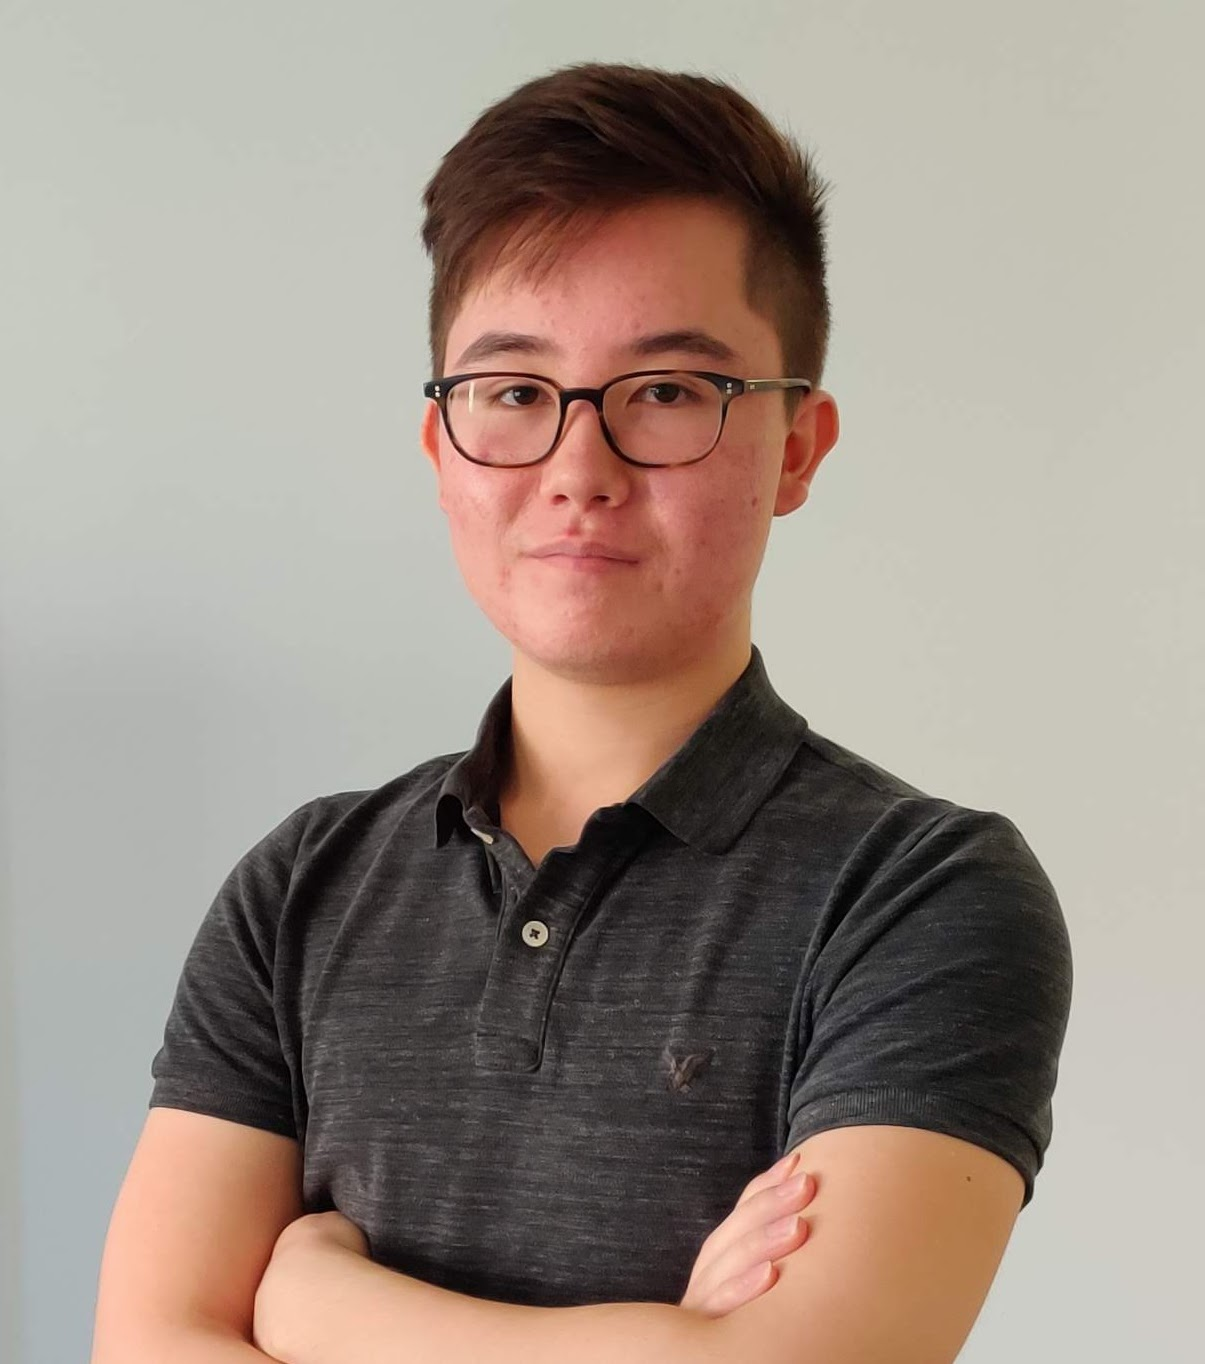
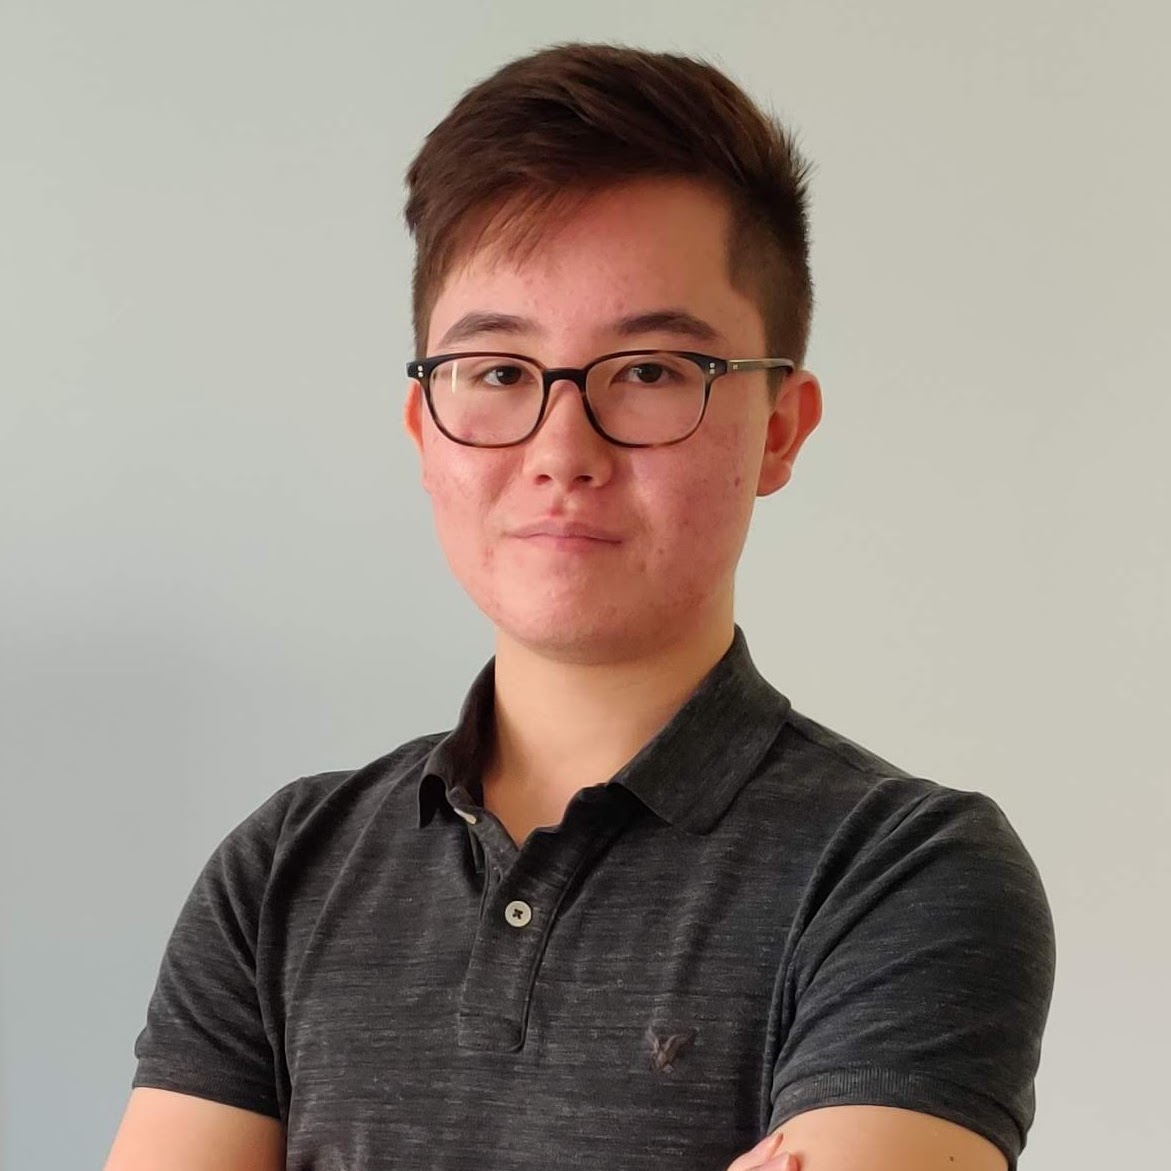
Begin work on author section

Changed region(s): [[0.0615, 0.0922, 0.9223, 1.0], [0.4304, 0.0307, 0.6456, 0.0922], [0.3689, 0.0615, 0.4304, 0.123]]

diff --git a/CSS/style.css b/CSS/style.css
@@ -296,12 +296,16 @@ figure img {
 
 .tag-container {
     width: 100%;
+    display: flex;
+    flex-wrap: wrap;
+    margin-bottom: 10px;
 }
 
 .tag {
     min-width: 125px;
     padding: 5px;
     margin-right: 15px;
+    margin-bottom: 15px;
     background-color: var(--dark-white-bg);
     border-radius: 50px;
     display: inline-flex;
@@ -319,7 +323,42 @@ figure img {
 }
 
 .author-summary {
+    margin-bottom: 50px;
+}
 
+.social-bar {
+    display: inline-flex;
+    align-items: center;
+    width: 90%;
+}
+
+.social-bar p {
+    font-family: var(--unnamed-font-family-roboto);
+    font-size: var(--unnamed-font-size-20);
+    line-height: var(--unnamed-line-spacing-26);
+    letter-spacing: var(--unnamed-character-spacing-0);
+    color: var(--gray-light);
+    display: inline;
+    margin-right: 10px;
+}
+
+.social-bar-heart {
+    float: right;
+    width: 10%;
+}
+
+.social-bar-heart img {
+    float: right;
+}
+
+.author-summary .author-img {
+    width: 100px;
+    height: 100px;
+    margin-right: 10px;
+    background-position: top;
+    background-image: url('../Images/headshot.jpg');
+    background-size: cover;
+    border-radius: 50%;
 }
 
 /* Aside */

diff --git a/index.html b/index.html
@@ -269,6 +269,18 @@
             </div>
             <div class="author-summary">
                 <!-- why isn't third figure margins collapsing on heading -->
+                <!-- Create text classes for every uniquely styled element -->
+                <div class="social-bar">
+                    <p>Share on:</p>
+                    <a href="#"><img class="small-icon" src="Images/facebook.png"></a>
+                    <a href="#"><img class="small-icon" src="Images/twitter.png"></a>
+                    <a href="#"><img class="small-icon" src="Images/linkedin.png"></a>
+                    <a href="#"><img class="small-icon" src="Images/pinterest.png"></a>
+                </div>
+                <div class="social-bar-heart">
+                    <img class="small-icon" src="Images/heart.png">
+                </div>
+                <div class="author-img"></div>
 
             </div>
         </article>
